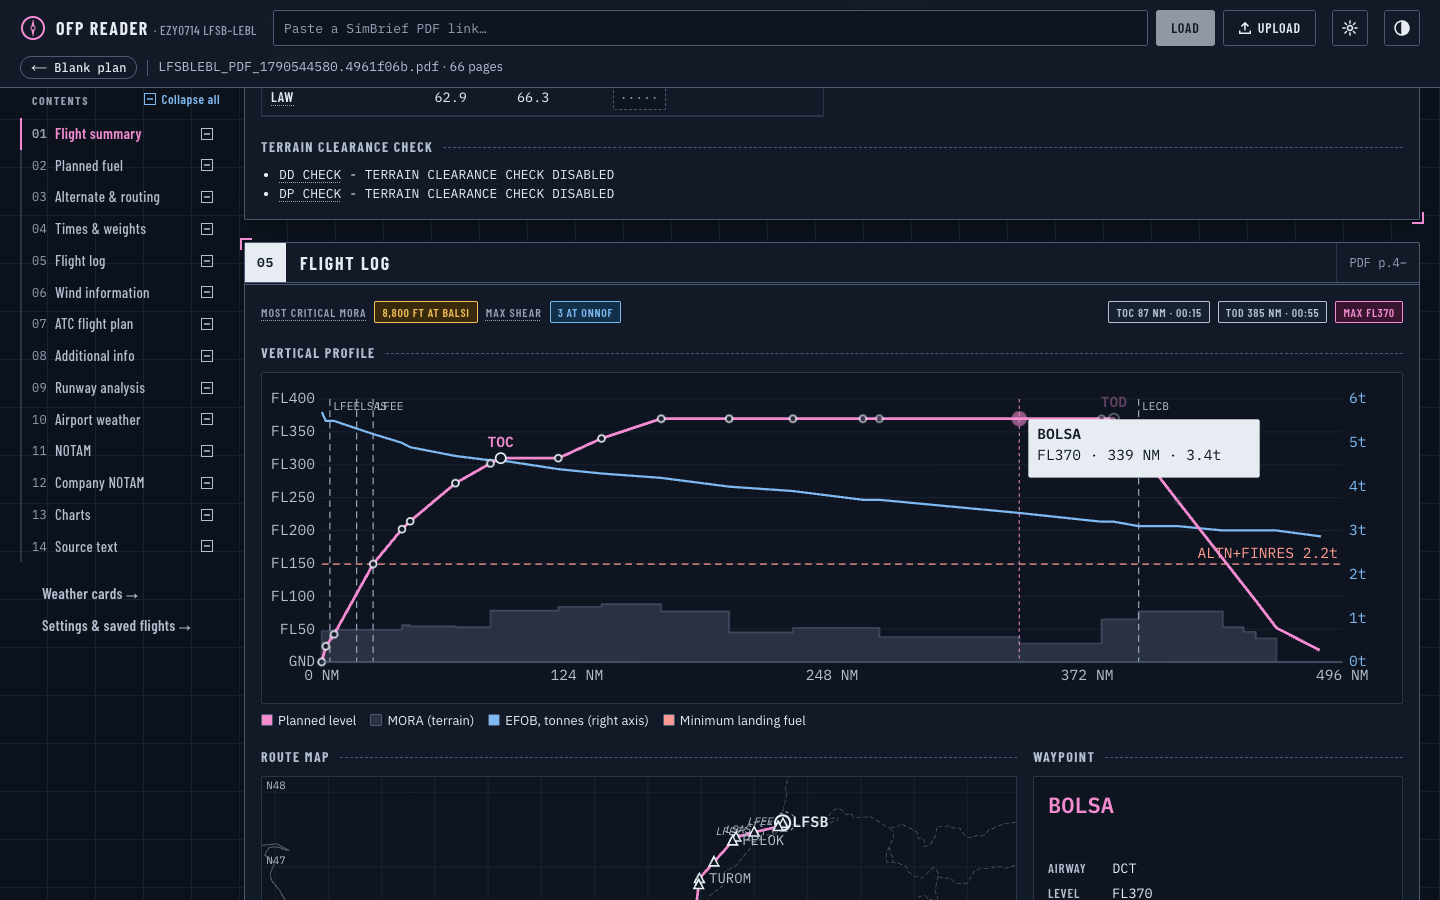
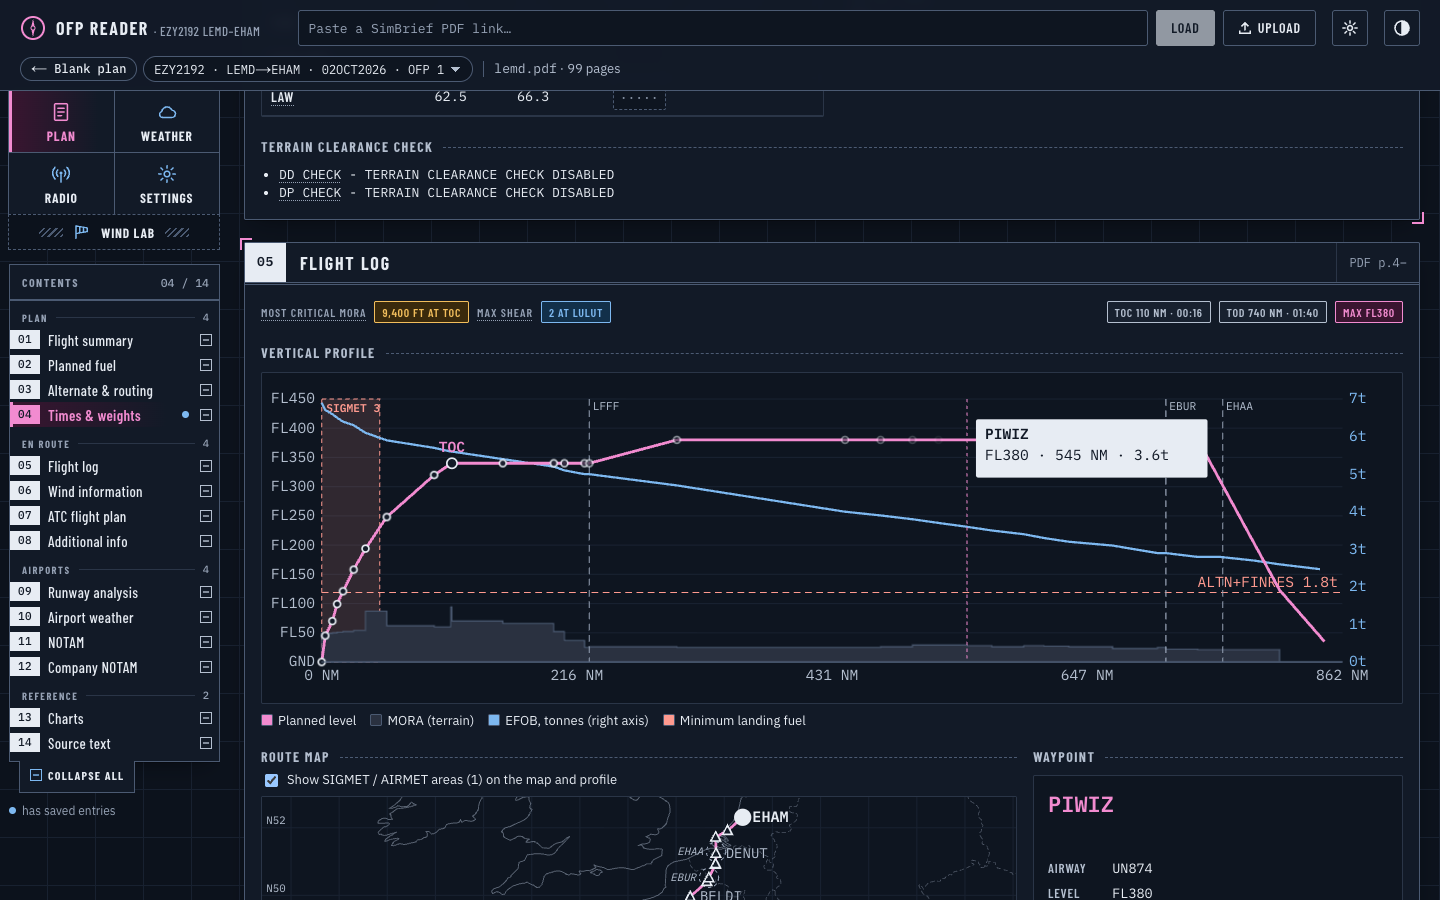
Release 1.8.0: Radio page and NAV tuning, one active flight across every page, new left rail

diff --git a/CHANGELOG.md b/CHANGELOG.md
@@ -4,9 +4,42 @@ All notable changes to OFP Reader. Versions follow [Semantic Versioning](https:/
 
 ## [Unreleased]
 
+## [1.8.0] - 2026-10-03
+
 ### Added
 
-- **Live weather from SimBrief** on the weather page: paste your own sign-in token from dispatch.simbrief.com (it lasts about an hour) and a list of airports, and Fetch loads each airport's current METAR, TAF and ATIS as cards. Only the token header is sent, and only to api.simbrief.com; results are cached for one minute; the token stays in the tab unless you tick Remember (with its time left shown, and a Forget button). The airports default to the ones already on the page.
+- **Radio page** (`/radio`) for planning the flight's frequencies, saved with the flight (so they export and import with it and show in Settings).
+  - Each airport (departure, destination, alternates) has ATIS · DEL · GND · TWR · APP (DEP at the departure), and each FIR / UIR you cross has its centre, with its entry times.
+  - Values go into radio-panel windows with a pictogram per type. Three looks: Scanlines and Dots (VFD glass, typed values green, OFP values cyan) and Classic (olive LCD by day, amber by night), with power-on, flash and flicker animations.
+  - Frequencies are checked as you type: COMMS band and 8.33 / 25 kHz channels; a NAV frequency in a COMMS slot is called out. Out of range turns the digits red with a stop sign. COMMS are completed to three decimals.
+  - **Add channel** for stations the plan can't know (e.g. Oxford Approach), with a name and a type.
+  - The OFP's ILS frequencies per runway are carried over (planned runway marked; a NOTAM outage rings it amber).
+- **NAV tuning** on the Radio page, in flight order: the departure runway's ILS (or "no ILS" and the reciprocal runway's ILS for a quick return), each VOR / NDB on the route with its ETO, which radio to tune it on and its ident in Morse, then the landing runway's ILS. **Add navaid** for anything the OFP doesn't list (VOR, VOR/DME, NDB in kHz, ILS, LOC, DME).
+- **One active flight across every page.** The plan you open is the one the reader, Weather, Radio and Settings all show, and moving between pages keeps it.
+  - Every page picks the plan the same way, at the start of the status line: a **Blank plan** chip and a **flight chip** listing your saved flights (with OFP number), plus "Open another plan…".
+  - Opening the reader without a link reopens the active flight. Weather loads its reports by itself, but never replaces reports you pasted yourself; it offers "Replace with …" instead. Settings preselects it and marks it Active.
+  - Other open tabs follow a switch, and `?flight=` links still work.
+- **New left rail.** The pages are tabs at the top (Plan, Weather, Radio, Settings, and Wind lab under a hatched experimental tab).
+  - Below them is a Contents card with the section you're in highlighted, a "05 / 14" position, sections grouped by phase on the reader (Plan, En route, Airports, Reference), and a dot on sections where you've saved entries.
+  - Collapse all sits in a box under the card.
+- **Delete single saved entries** in Settings: "Unlock to delete" adds a delete button to each row.
+- **Wind lab** (the page for tuning the windsock sway) uses the site's layout and is linked from the rail as experimental.
+
+### Changed
+
+- The reader's "Recent" chips are replaced by the flight chip, which lists every saved flight.
+- In Settings, choosing a flight's row (or its Select button, formerly View) makes it the active flight.
+- The Radio, Weather and Settings top bars match: Brand, Back to reader and the theme toggle.
+- The rail is wider, taking the space from the left margin, so the main column keeps its width.
+
+### Fixed
+
+- Refreshing a plan (or any page) no longer shifts the layout: the status line has a fixed height, and content appears once it's ready instead of growing in.
+- Collapsing a section no longer moves its header, and collapsed Wind lab sections lost a stray gap.
+- The "Blank flight plan" banner no longer appears while a plan is opening.
+- The Contents highlight followed the blank form instead of the loaded plan; it now follows your scroll position.
+- The footer stays at the bottom of the screen when every section is collapsed.
+- The Radio page's FIR rows clashed when a route crossed the same FIR twice; each FIR now has one row with all its entry times.
 
 ## [1.7.0] - 2026-10-02
 
@@ -153,6 +186,7 @@ All notable changes to OFP Reader. Versions follow [Semantic Versioning](https:/
 - Settings page for saved flights, stored entries, export, deletion and theme.
 - Recent-plan chips, Blank plan, a planned vs actual timeline and day/night themes meeting WCAG AA.
 
+[1.8.0]: https://github.com/redomar/ofp-reader/compare/v1.7.0...v1.8.0
 [1.7.0]: https://github.com/redomar/ofp-reader/compare/v1.6.0...v1.7.0
 [1.6.0]: https://github.com/redomar/ofp-reader/compare/v1.5.0...v1.6.0
 [1.5.0]: https://github.com/redomar/ofp-reader/compare/v1.4.0...v1.5.0

diff --git a/README.md b/README.md
@@ -43,10 +43,12 @@ and every value gets context: derived margins, decoded weather, a vertical profi
   - NOTAMs: search, category filters, "critical" (CLSD, U/S, NOT AVBL…) and "mentions my planned runway" filters.
 - **Hover (or focus) to learn.** Almost every label explains itself: OFP abbreviations, ICAO equipment and PBN codes, METAR groups, TLR columns.
 - **Fill it in as you fly.** Actual times, weights, ATIS, clearance, RVSM check, ATO / AFOB per waypoint, TLR actuals: all saved per flight in your browser.
-- **Reopens instantly, even after SimBrief expires it.** Each PDF is kept locally, so returning to a plan (same link, reload, recent chip or Settings) doesn't download it again. SimBrief only keeps OFP PDFs for a limited time, so the saved copy is often the only one left.
+- **One plan across every page.** The plan you open is the active flight on the reader, Weather, Radio and Settings; switch it from the flight chip on any page (or Blank plan to close it), and other open tabs follow.
+- **Reopens instantly, even after SimBrief expires it.** Each PDF is kept locally, so returning to a plan (same link, reload, the flight chip or Settings) doesn't download it again. SimBrief only keeps OFP PDFs for a limited time, so the saved copy is often the only one left.
 - **Printouts for the flight deck.** An MCDU set-up sheet (INIT A, INIT B, F-PLN, PERF TAKE OFF, RAD NAV, winds) and an alternate sheet (return to departure, then one page per alternate, each starting with FINRES), printed line by line on continuous-form paper, with Copy text.
 - **ATC flight plan, explained.** Decoded into flight, aircraft, route & times and capability cards, and the route drawn leg by leg on printer paper with the VOR / NDB frequencies beside it.
 - **SIGMETs on your route.** Each SIGMET / AIRMET decoded and checked against your route, levels and times, drawn on the route map and profile.
+- **Radio frequencies.** A Radio page (`/radio`) for planning the flight's frequencies: type each airport's ATIS / DEL / GND / TWR / APP and each FIR's centre into radio-panel windows (checked for the COMMS band and 8.33 kHz channels), add your own stations, and get the OFP's ILS per runway plus a NAV tuning sequence in flight order (departure ILS or the reciprocal for a return, each VOR / NDB with its ETO and Morse ident, the landing ILS).
 - **Weather cards.** A separate page (`/weather`) turns pasted METARs, TAFs and ATIS (coded or plain language), or a saved plan's weather, into cards: sky picture, wind, visibility, cloud layers, TAF timeline by flight category, ATIS letter, runways and notices.
 - **Your layout.** Collapse any section (or all of them) from its header or the Contents rail; it stays the way you left it. Pick the flight summary graphic: vertical profile, profile + times, route silhouette, progress timeline or classic arc.
 - **Day and night themes**, both meeting WCAG AA contrast.
@@ -64,6 +66,10 @@ and every value gets context: derived margins, decoded weather, a vertical profi
 | Planned vs actual timeline | Settings & saved flights |
 | --- | --- |
 | ![Times table with planned and actual timeline bars](docs/screenshots/times.png) | ![Saved flights and stored entries](docs/screenshots/settings.png) |
+
+**Radio page**
+
+![COMMS frequencies typed into radio-panel windows, with the OFP's ILS frequencies per runway](docs/screenshots/radio.png)
 
 **Weather cards page**
 
